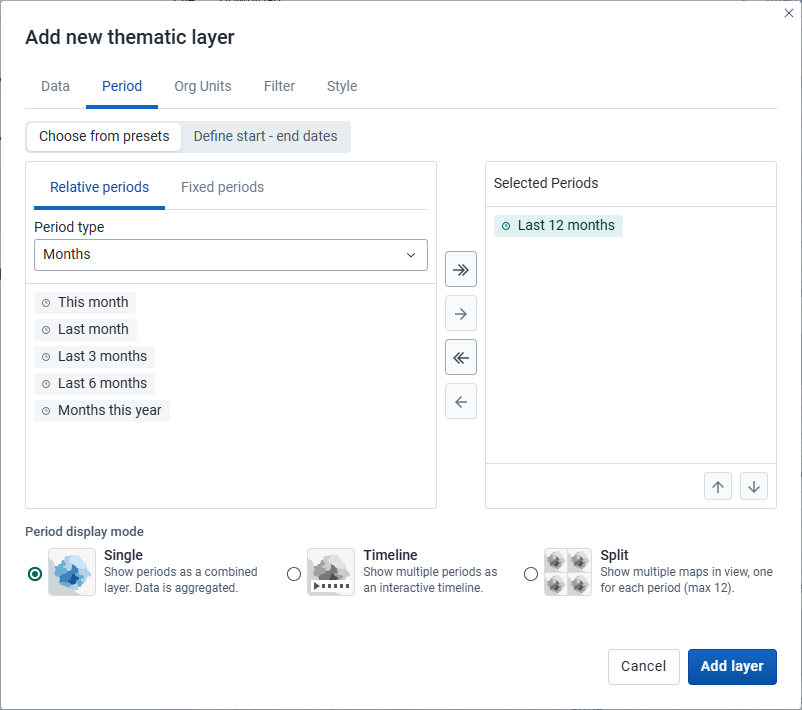
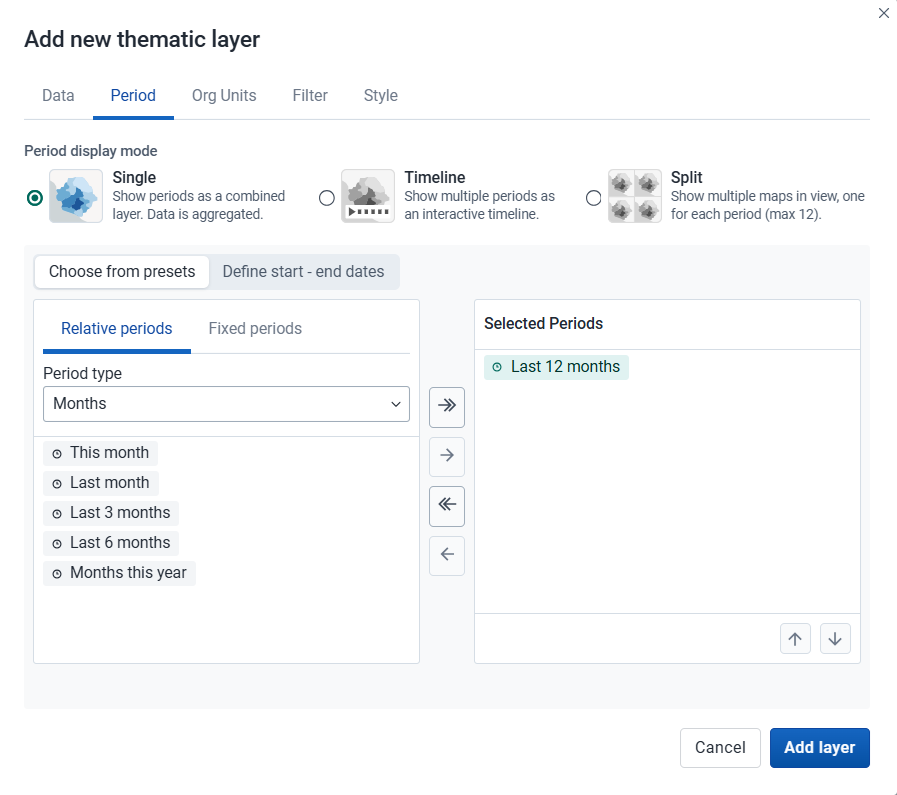
docs: update

diff --git a/docs/maps.md b/docs/maps.md
@@ -234,33 +234,35 @@ layer** selection. This opens the Thematic layer configuration dialog.
 
     Select the time span over which the thematic data is mapped.
 
-    -   If you choose **Chose from presets**, you can combine one or more relative and fixed periods.
-
-        -   _Relative period_
-
-            Select **Relative periods**, then the **Period type** you are interested in (**Years**, **Months**, etc.), and finally, select one or more relative periods, such as **This year** and **Last year** or **Last 12 months**.
-
-            A **default relative period for analysis** can be set in the **Systems Settings** app.
-
-        -   _Fixed period_
-
-            Select **Relative periods**, then choose the **Period type** you are interested in (**Yearly**, **Monthly**, etc.), and finally, select one or more relative periods, such as **2024** or **January 2025** and **Febuary 2025**.
-
-        If your selection covers multiple years, months, weeks, and/or days, the layer can be displayed as:
+    - **Period display mode** - Select how the selected periods will be visualized on the map:
 
         -   _Single_ (default)
 
-            Show periods as a combined layer. Data is aggregated.
+            Displays all selected periods as a single combined layer with aggregated data. (Required when only one period is selected or when using start–end dates.)
 
         -   _Timeline_
 
-            Show multiple periods as an interactive timeline. Periods are ordered chronologically. Only one timeline layer can be added per map.
+            Displays multiple periods as an interactive timeline ordered chronologically. Only one timeline layer can be added per map.
 
         -   _Split_
 
-            Show multiple maps side by side to compare different periods. A split map supports up to 12 periods, including those in multi-period presets. It cannot be combined with other layer types.
+            Displays multiple periods side by side for comparison. Supports up to 12 periods (including multi-period presets) and can only be combined with other split layers.
 
-    -   Alternatively, you can **Define start - end dates**. Start and end dates are inclusive and will be reflected in the outputs.
+    -   After selecting a display mode, choose how to define the period(s):
+    
+        - **Choose from presets** - _Available for all display modes. If you selected Single, you will also see_ Define start–end dates _as an alternative._ You can combine one or more relative and fixed periods.
+
+            -   _Relative period_
+
+                Select **Relative periods**, then the **Period type** (**Years**, **Months**, etc.) and choose one or more relative periods, such as **This year** and **Last year** or **Last 12 months**.
+
+                A **default relative period for analysis** can be set in the **Systems Settings** app.
+
+            -   _Fixed period_
+
+                Select **Fixed periods**, then choose the **Period type** (**Yearly**, **Monthly**, etc.) and choose one or more fixed periods, such as **2024** or **January 2025** and **Febuary 2025**.
+
+        -   **Define start - end dates** - _Available only when the Single display mode is selected._ Specify exact start and end dates. Both dates are inclusive and will be reflected in the outputs.
 
 3.  In the **Org Units** tab:
 
